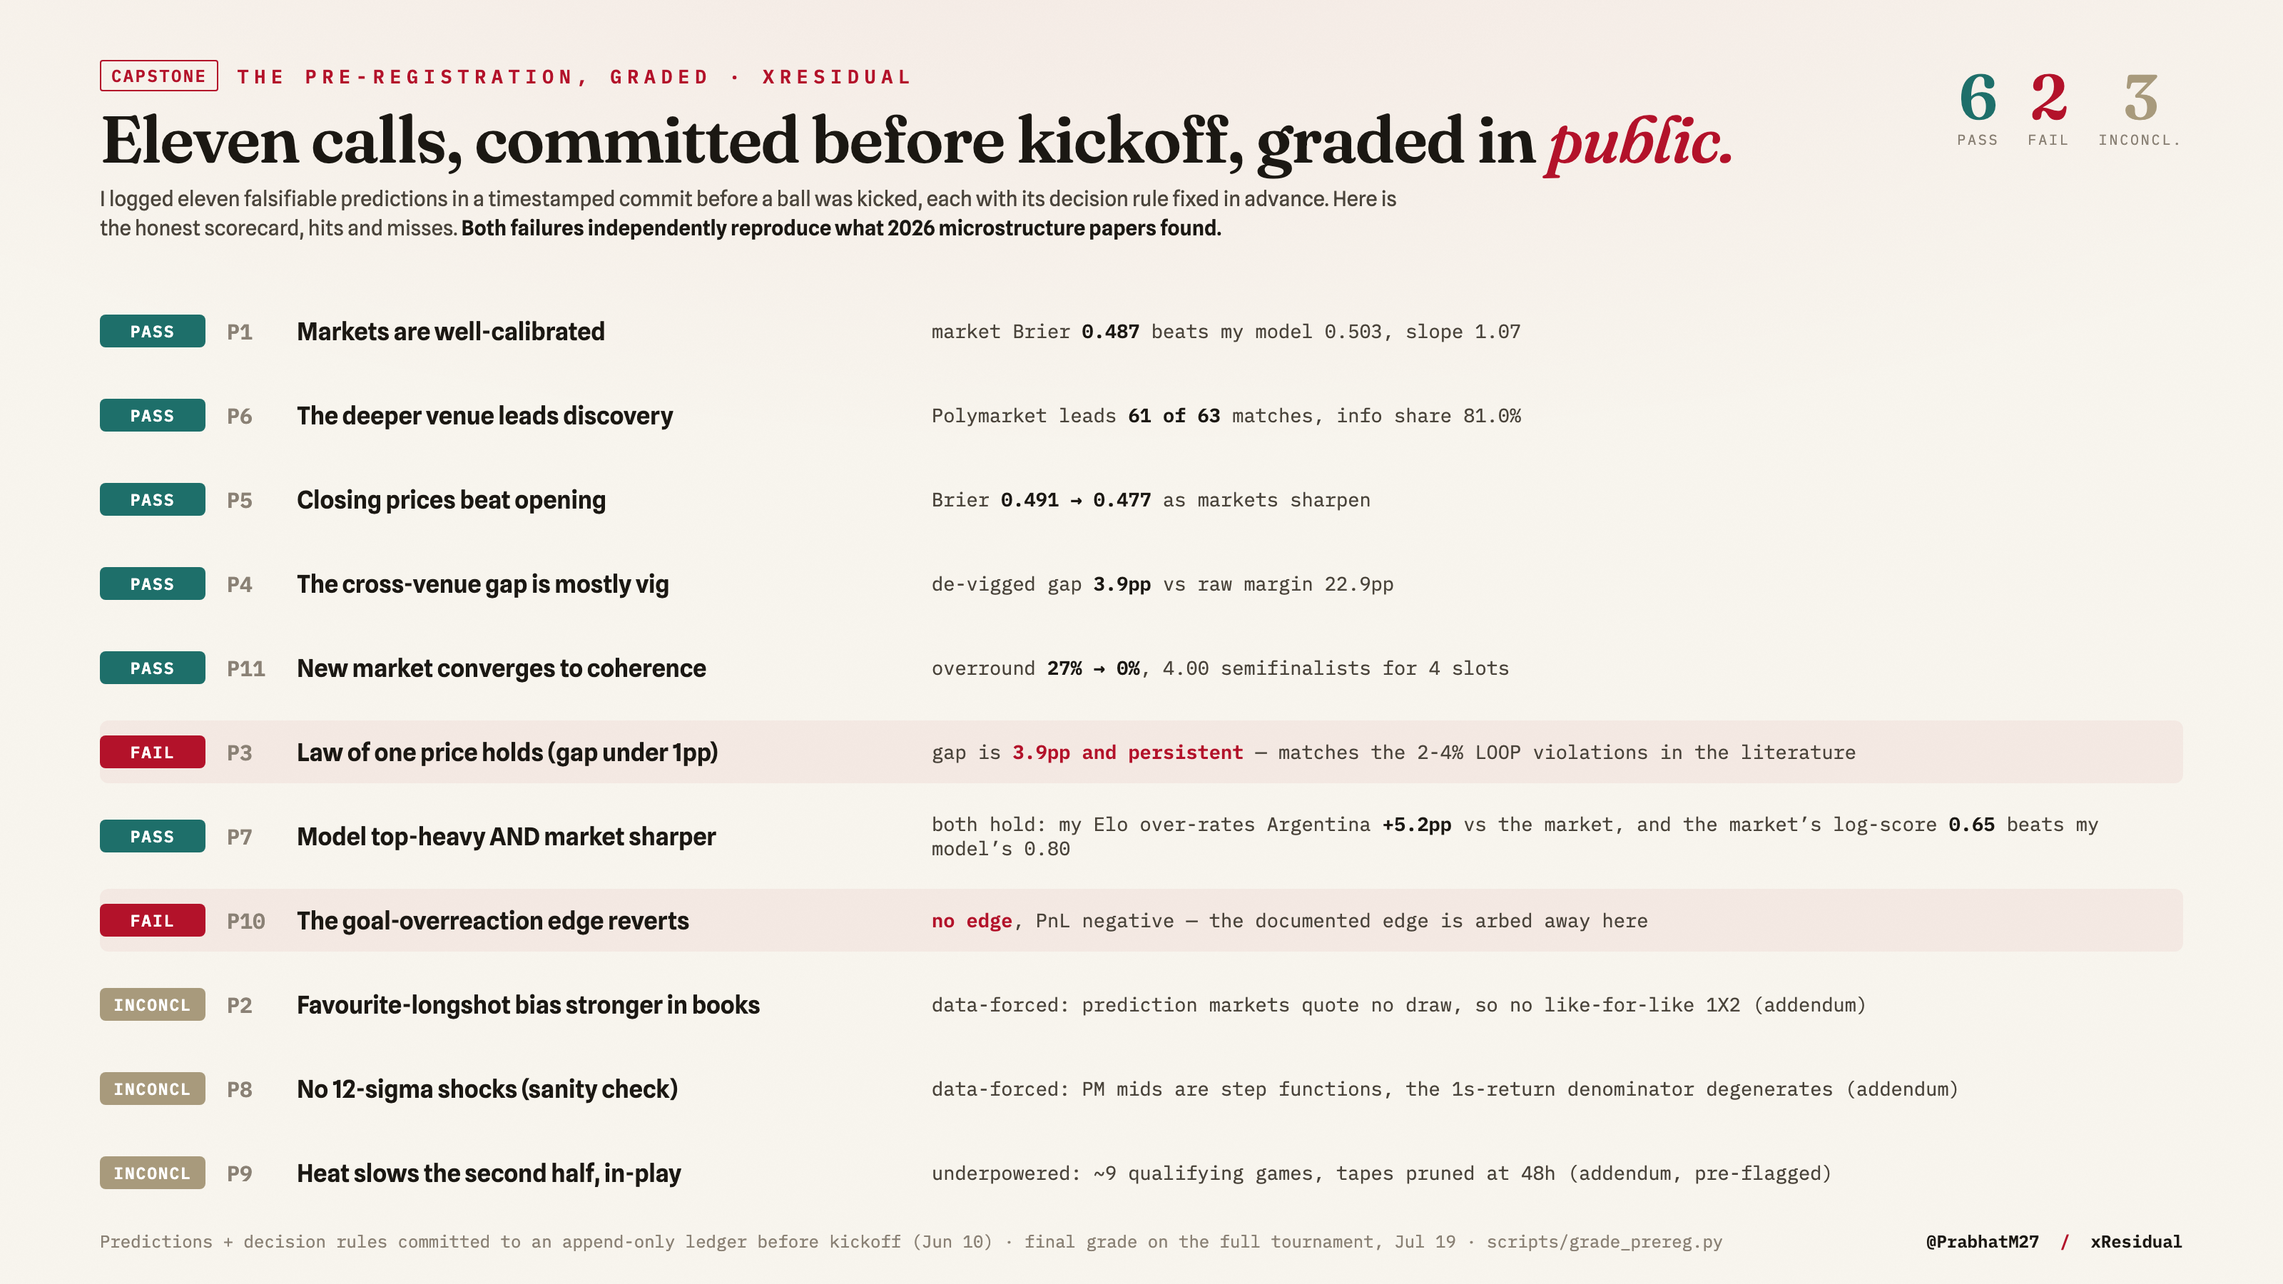
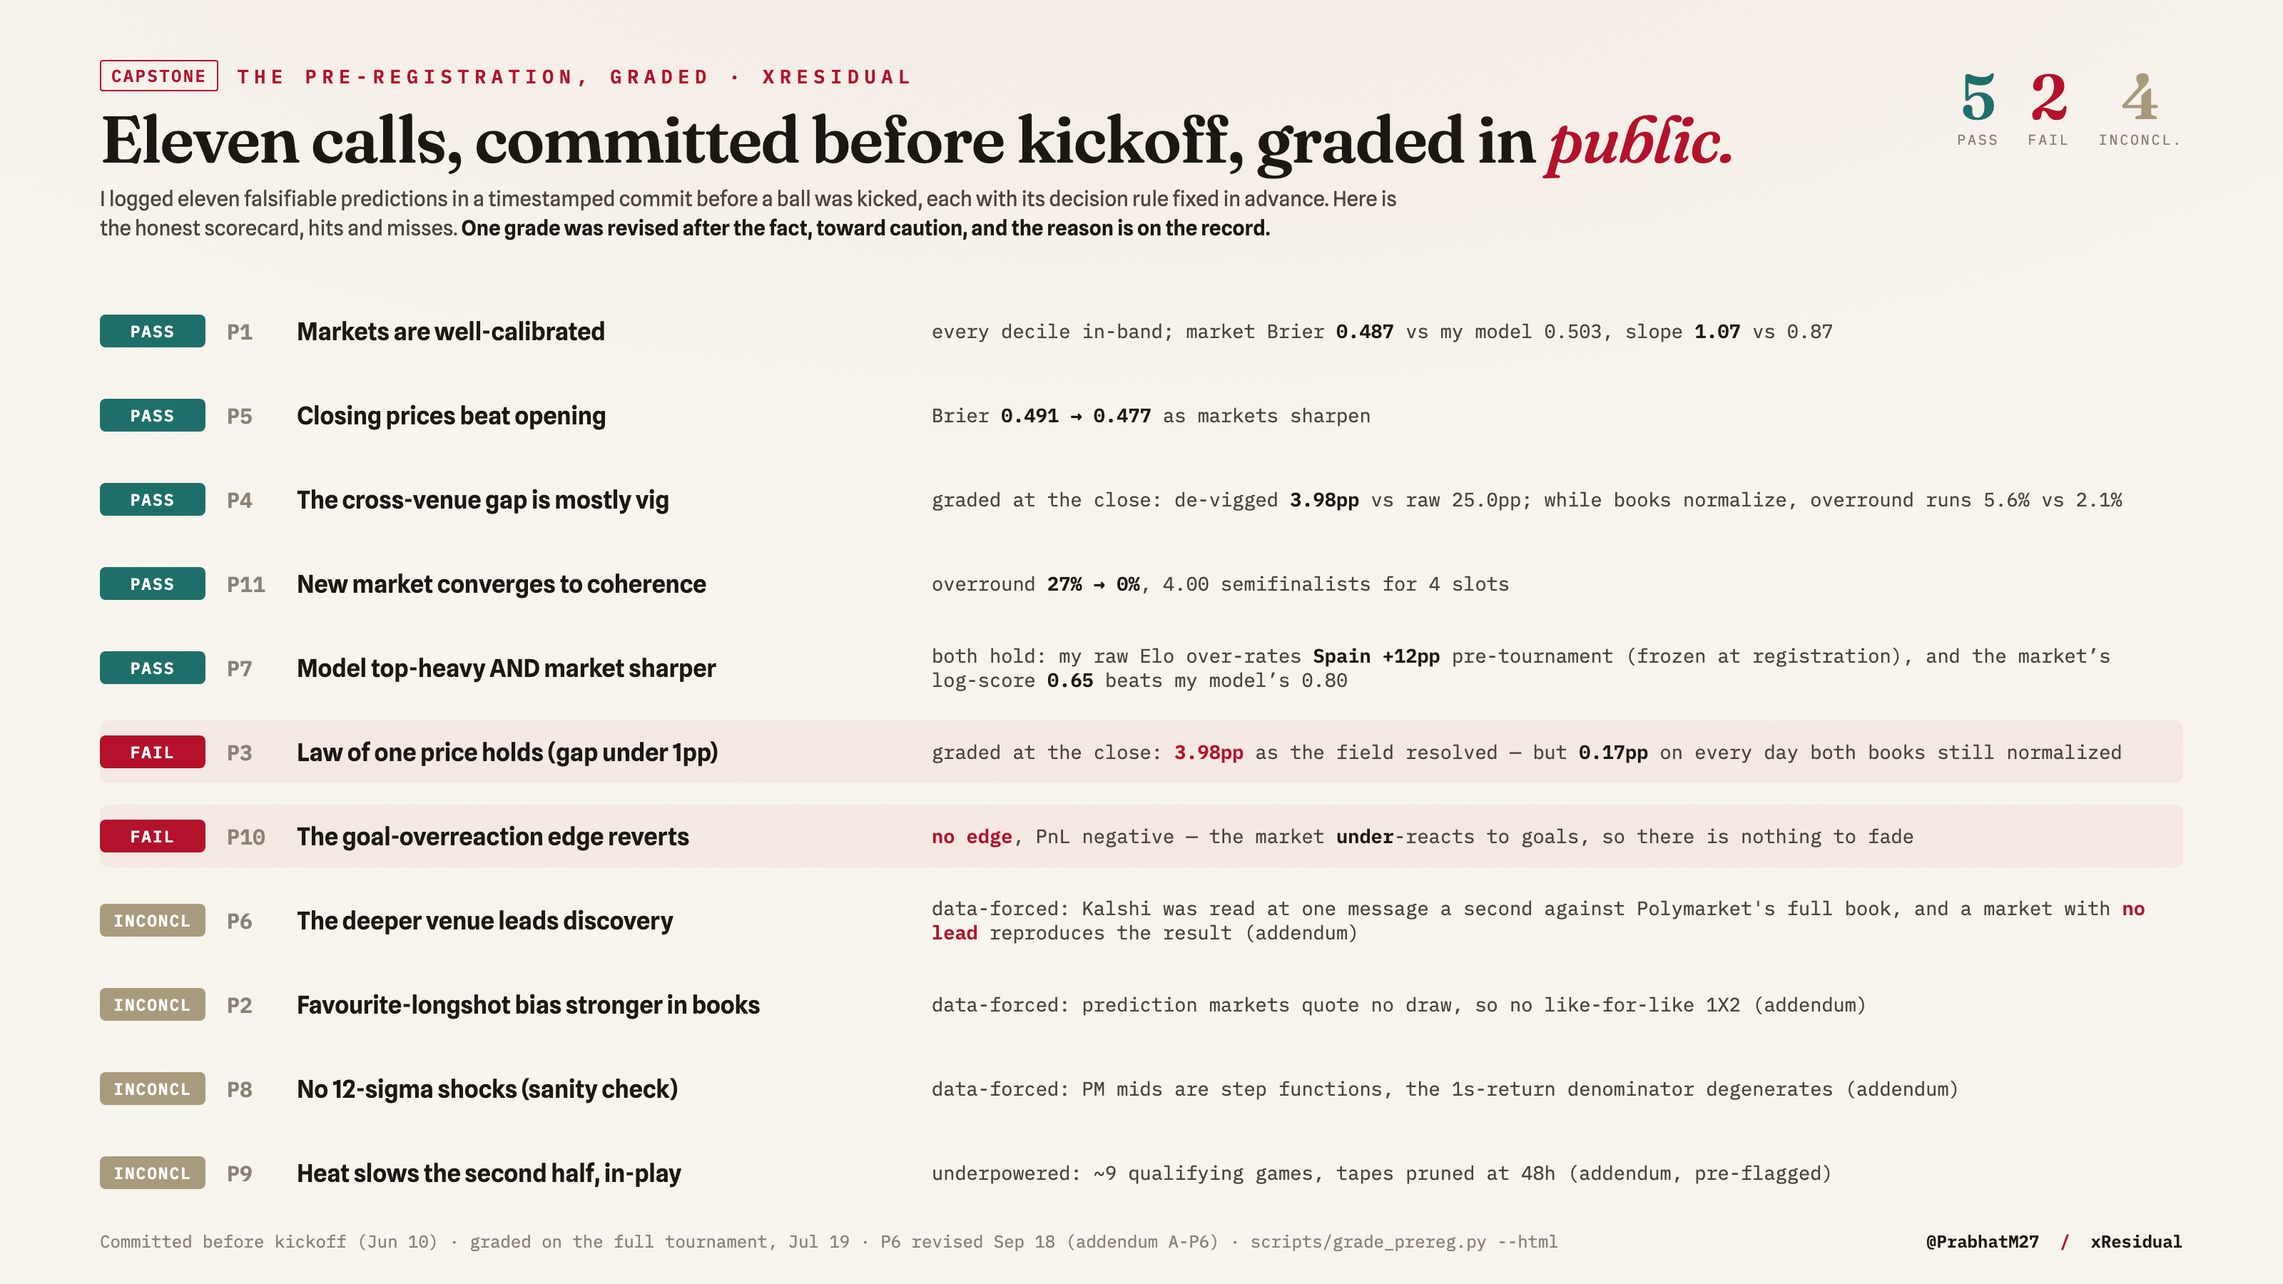
Regrade P6 to inconclusive and publish the correction
P6, 'the deeper venue leads price discovery', was graded PASS on a measurement that cannot see a lead:
Kalshi's mid came from a feed capped at one message a second against Polymarket's full book, and a
zero-lead placebo reproduces the published ordering. The grader now reads that placebo artifact and
returns a data-forced INCONCLUSIVE, the same class of verdict as P8, so the grade follows the evidence
if it is ever re-run rather than being hard-coded. The tally moves from 6/2/3 to 5/2/4. Addendum entry
A-P6 records the reasoning, and says first that this is a post-hoc revision of a named primary, made in
the only direction such a revision can be defended.

CORRECTION.md is the public account: what was claimed, how it failed, what changes, what does not, and
what the data does say (38% Kalshi-first, 39% no lead, 23% Polymarket-first, deconvolved).

The scorecard card also carried three stale or overstated lines, fixed from the artifacts: P1 said the
market 'beats my model' (a point result, p = 0.25), P3 called a resolution artifact 'persistent' where
the gap was 0.17pp on every comparable day, and P10 said the fade was 'arbed away' where the market in
fact under-reacts.

diff --git a/scripts/grade_prereg.py b/scripts/grade_prereg.py
@@ -76,6 +76,24 @@ def grade_p6():
         return V("P6", "Deeper venue leads (info share)", "genuine unknown", True,
                  INC, val, "n>=20 goal shocks", n=n, note="below pre-registered min n")
     verdict = PASS if poly > kal and (gg or 0) > 0.5 else FAIL
+    # Instrument check, added 2026-09-18 (PREREGISTRATION-ADDENDUM.md, A-P6). The capture read
+    # Kalshi's mid from its `ticker` channel, capped at one message per second, and Polymarket's
+    # from its full book (~10 ms). A known-truth placebo (scripts/sampling_bias_check.py) feeds
+    # this pipeline a market with NO lead; if it still reports a Polymarket majority, the metric
+    # cannot tell a lead from the sampling asymmetry on this data, and the grade is data-forced
+    # INCONCLUSIVE -- the same class of verdict as P8. Read from the artifact, never hard-coded.
+    sb = _load_json(os.path.join(WRITEUPS, "_sampling_bias_results.json"))
+    if sb:
+        zero = [r for r in sb.get("lead_lag_placebo", [])
+                if r.get("grid") == "kalshi_ticker_timestamps" and r.get("true_lag_ms") == 0]
+        if zero and zero[0]["n_gated"] and zero[0]["poly_first"] / zero[0]["n_gated"] > 0.5:
+            z = zero[0]
+            return V("P6", "Deeper venue leads (info share)", "genuine unknown", True,
+                     INC, val, "Poly IS>50% in majority of n>=20", n=n,
+                     note=(f"DATA-FORCED INCONCLUSIVE (A-P6): a zero-lead placebo sampled like the "
+                           f"capture reads Polymarket-first in {z['poly_first']}/{z['n_gated']} "
+                           f"windows, so the metric is not identified here. Deconvolved: see "
+                           f"_lead_deconvolution_results.json"))
     return V("P6", "Deeper venue leads (info share)", "genuine unknown", True,
              verdict, val, "Poly IS>50% in majority of n>=20", n=n,
              note="cross-check: per-match leader majority")
@@ -308,16 +326,16 @@ _ICON = {PASS: "PASS  ", FAIL: "FAIL  ", PARTIAL: "PART  ", INC: "INCONC", PEND:
 SCORECARD_HTML_OUT = os.path.join(VIZ, "model", "prereg_scorecard.html")
 _G = {PASS: "pass", FAIL: "fail", INC: "inc"}
 _BADGE = {"pass": "PASS", "fail": "FAIL", "inc": "INCONCL"}
-DISPLAY_ORDER = ["P1", "P6", "P5", "P4", "P11", "P3", "P7", "P10", "P2", "P8", "P9"]
+DISPLAY_ORDER = ["P1", "P5", "P4", "P11", "P7", "P3", "P10", "P6", "P2", "P8", "P9"]
 CARD = {
- "P1":  (PASS, "Markets are well-calibrated", "market Brier <b>0.487</b> beats my model 0.503, slope 1.07"),
- "P6":  (PASS, "The deeper venue leads discovery", "Polymarket leads <b>61 of 63</b> matches, info share 81.0%"),
+ "P1":  (PASS, "Markets are well-calibrated", "every decile in-band; market Brier <b>0.487</b> vs my model 0.503, slope <b>1.07</b> vs 0.87"),
+ "P6":  (INC,  "The deeper venue leads discovery", "data-forced: Kalshi was read at one message a second against Polymarket's full book, and a market with <span class=\"r\">no lead</span> reproduces the result (addendum)"),
  "P5":  (PASS, "Closing prices beat opening", "Brier <b>0.491 &rarr; 0.477</b> as markets sharpen"),
- "P4":  (PASS, "The cross-venue gap is mostly vig", "de-vigged gap <b>3.9pp</b> vs raw margin 22.9pp"),
+ "P4":  (PASS, "The cross-venue gap is mostly vig", "graded at the close: de-vigged <b>3.98pp</b> vs raw 25.0pp; while books normalize, overround runs 5.6% vs 2.1%"),
  "P11": (PASS, "New market converges to coherence", "overround <b>27% &rarr; 0%</b>, 4.00 semifinalists for 4 slots"),
- "P3":  (FAIL, "Law of one price holds (gap under 1pp)", "gap is <span class=\"r\">3.9pp and persistent</span> &mdash; matches the 2&ndash;4% LOOP violations in the literature"),
+ "P3":  (FAIL, "Law of one price holds (gap under 1pp)", "graded at the close: <span class=\"r\">3.98pp</span> as the field resolved &mdash; but <b>0.17pp</b> on every day both books still normalized"),
  "P7":  (PASS, "Model top-heavy AND market sharper", "both hold: my raw Elo over-rates <b>Spain +12pp</b> pre-tournament (frozen at registration), and the market&rsquo;s log-score <b>0.65</b> beats my model&rsquo;s 0.80"),
- "P10": (FAIL, "The goal-overreaction edge reverts", "<span class=\"r\">no edge</span>, PnL negative &mdash; the documented edge is arbed away here"),
+ "P10": (FAIL, "The goal-overreaction edge reverts", "<span class=\"r\">no edge</span>, PnL negative &mdash; the market <b>under</b>-reacts to goals, so there is nothing to fade"),
  "P2":  (INC,  "Favourite-longshot bias stronger in books", "data-forced: prediction markets quote no draw, so no like-for-like 1X2 (addendum)"),
  "P8":  (INC,  "No 12-sigma shocks (sanity check)", "data-forced: PM mids are step functions, the 1s-return denominator degenerates (addendum)"),
  "P9":  (INC,  "Heat slows the second half, in-play", "underpowered: ~9 qualifying games, tapes pruned at 48h (addendum, pre-flagged)"),
@@ -363,7 +381,7 @@ _CARD_TEMPLATE = """<!doctype html>
 <body><div class="card">
   <div class="head"><div class="kicker"><span class="no">CAPSTONE</span> The pre-registration, graded &middot; xResidual</div>
     <h1>Eleven calls, committed before kickoff, graded in <em>public.</em></h1>
-    <div class="dek">I logged eleven falsifiable predictions in a timestamped commit before a ball was kicked, each with its decision rule fixed in advance. Here is the honest scorecard, hits and misses. <b>Both failures independently reproduce what 2026 microstructure papers found.</b></div>
+    <div class="dek">I logged eleven falsifiable predictions in a timestamped commit before a ball was kicked, each with its decision rule fixed in advance. Here is the honest scorecard, hits and misses. <b>One grade was revised after the fact, toward caution, and the reason is on the record.</b></div>
   </div>
   <div class="tally">
     <div class="t pass"><div class="n">%%TPASS%%</div><div class="l">Pass</div></div>
@@ -372,7 +390,7 @@ _CARD_TEMPLATE = """<!doctype html>
   </div>
   <div class="rows">%%ROWS%%</div>
   <div class="foot">
-    <div>Predictions + decision rules committed to an append-only ledger before kickoff (Jun 10) &middot; final grade on the full tournament, Jul 19 &middot; scripts/grade_prereg.py --html</div>
+    <div>Committed before kickoff (Jun 10) &middot; graded on the full tournament, Jul 19 &middot; P6 revised Sep 18 (addendum A-P6) &middot; scripts/grade_prereg.py --html</div>
     <div class="brand">@PrabhatM27 &nbsp;<b>/</b>&nbsp; xResidual</div>
   </div>
 </div>

diff --git a/CORRECTION.md b/CORRECTION.md
@@ -1,0 +1,88 @@
+# Correction: the cross-venue lead-lag finding is withdrawn
+
+*2026-09-18.*
+
+Until this date, this repository, its site and its desk note said that **Polymarket discovers the
+price of a goal before Kalshi**: first in 72% of 392 repricing events, by a median of +600 ms, with an
+81.0% Gonzalo-Granger information share and a lead in 61 of 63 cointegrated matches. That finding is
+withdrawn. It was produced by how the data was read, not by the markets.
+
+## What went wrong
+
+The capture recorded both venues at full resolution. The analysis did not use it that way.
+
+Kalshi's mid-price was built only from Kalshi's `ticker` channel
+([`xresidual/ws_events.py:111`](xresidual/ws_events.py#L111),
+[`scripts/stream_micro.py:63`](scripts/stream_micro.py#L63)). Kalshi documents that channel as
+event-driven, but it is capped at one message per second per market: in the busiest seconds of a match
+the order book changes 200–380 times while the ticker sends at most one message. Polymarket's mid was
+rebuilt from its full order book, updating roughly every 10 ms. Kalshi's own full-resolution
+`orderbook_delta` stream was subscribed to and recorded on every capture, and never read.
+
+A price you only look at once a second always looks late — by up to a second, about half a second on
+average. The published lead was 600 ms.
+
+## How it was established
+
+Not by argument. By a test where the right answer is known in advance
+([`scripts/sampling_bias_check.py`](scripts/sampling_bias_check.py)):
+
+- Take real Polymarket price paths around real goals. Build a "Kalshi" that is **the same price at the
+  same instant** — a lead of exactly zero — and observe it at Kalshi's real one-per-second timestamps.
+  The published estimator reports **Polymarket first in 26 of 29 windows, at a median +600 ms.**
+- Give the same estimator both prices at full resolution and it recovers the true lead exactly. The
+  fault is the sampling, not the estimator.
+- A true 300 ms *Kalshi* lead still reads as Polymarket-first.
+- The information share fails the same way: whichever venue is sampled faster gets the larger share,
+  and swapping which one that is swaps the "leader". On the one match whose Kalshi book could be rebuilt
+  and verified, Polymarket's share falls from 88% to 53%.
+
+The calm-play placebo and the exogenous goal clock, which the original analysis relied on, could not
+catch this: both check things downstream of the price series, and both inherit the problem.
+
+## What changes
+
+- **Withdrawn:** the +600 ms lead, the 72% first-mover share, the 57-of-66 per-match lean, the
+  clock-verified 75%, the 81.0% component and 75.2% Hasbrouck information shares, and the
+  goal-vs-calm contrast (86% vs 53%).
+- **Withdrawn:** that the leading venue's order book empties hardest at a goal. With both venues
+  sampled the same way, the comparison reverses.
+- **Regraded:** pre-registered prediction P6 ("the deeper venue leads price discovery") moves from
+  PASS to INCONCLUSIVE, so the scorecard is now **5 pass / 2 fail / 4 inconclusive**, not 6 / 2 / 3.
+  The reasoning is logged in [PREREGISTRATION-ADDENDUM.md](PREREGISTRATION-ADDENDUM.md) (entry A-P6).
+
+## What does not change
+
+Everything that did not depend on Kalshi's timing at second resolution:
+
+- The market out-calibrated my pre-registered model (market Brier 0.487 vs 0.503; calibration slope
+  1.07 vs 0.87). P1, the other named primary, still passes.
+- The cross-venue gap is margin, not disagreement: 0.17 pp de-vigged on every day both books
+  normalized, against overround of 5.6% on Kalshi and 2.1% on Polymarket.
+- The market under-reacts to goals, booking about a third of the model's fair move. This was measured
+  on Polymarket alone, 30 seconds after each goal.
+- Order books empty at a goal on both venues, so the dislocation a follower would chase has nothing
+  resting behind it. Once-a-second sampling made Kalshi's book look *deeper* than it was, so the
+  un-harvestable conclusion is, if anything, understated.
+
+## What the data does say
+
+The estimator's response to a known lead is measurable, so the 427 published lead measurements can be
+inverted against it ([`scripts/lead_deconvolution.py`](scripts/lead_deconvolution.py), validated on
+known inputs before use). The recovered distribution of true leads: **38% Kalshi first, 39% no lead,
+23% Polymarket first.** There is real cross-venue structure, in both directions, and no systematic
+Polymarket lead. This is exploratory, not a pre-registered result.
+
+## Where the old material is
+
+The desk note, the price-discovery writeup, the blog post, the SSRN draft and the June 14
+microstructure pre-registration are in [`archive/cross-venue/`](archive/cross-venue/), unchanged. The
+scripts stay where they were, because the tests above run on them. The full audit — every result sorted
+by whether it survives — is [`writeups/recovery-audit.md`](writeups/recovery-audit.md).
+
+## Why it was missed
+
+Every check this project ran asked whether the numbers were consistent: prose against artifacts,
+artifacts against rebuilds, the paper against a fresh clone. None asked whether the input was right.
+A pipeline can be perfectly self-consistent and uniformly wrong. The known-truth placebo that exposed
+this took about an hour to build; it should have been the first test, not the last.

diff --git a/PREREGISTRATION-ADDENDUM.md b/PREREGISTRATION-ADDENDUM.md
@@ -155,3 +155,45 @@ such, not stretched into a PASS or FAIL off an underpowered half-metric. P9 was 
 deliberately-flagged genuine unknown; the primaries (P1, P6) and the scored FAIL/PASS results are
 unaffected. All three inconclusives (P2, P8, P9) are now documented data-forced or underpowered
 limitations, so the July-19 scorecard carries no undocumented gap.
+
+---
+
+## 2026-09-18 — P6 regraded PASS → INCONCLUSIVE: the instrument cannot see the lead (entry A-P6)
+
+**This entry is different from the ones above, and the difference should be stated first.** Every
+earlier entry was either a method fix made before kickoff or a data-forced verdict recorded at grading
+time. This one revises a published grade two months after the final, and it revises a *named primary*.
+It moves the verdict toward caution, not toward a better score, which is the only direction a
+post-hoc change to a frozen scorecard can be defended in.
+
+**What was wrong.** P6 asks whether the deeper venue leads price discovery, graded on the information
+share from a VECM on synchronized mids. The capture recorded both venues at full resolution — Kalshi's
+`orderbook_delta` stream arrives about every 10 ms — but the analysis built Kalshi's mid only from its
+`ticker` channel (`xresidual/ws_events.py:111`, `scripts/stream_micro.py:63`). Kalshi documents that
+channel as event-driven, and in practice it is capped at one message per second per market: in the
+busiest seconds of a match the book changes 200–380 times while the ticker sends at most one message.
+Polymarket's mid was rebuilt from its full book. One venue was therefore observed about a hundred times
+more often than the other, and a price observed once a second is observed late by construction.
+
+**How it was established.** A known-truth placebo (`scripts/sampling_bias_check.py`,
+`writeups/_sampling_bias_results.json`) feeds the published pipeline a market in which neither venue
+leads — the same price path on both sides — observed the way the capture observed Kalshi. It reports
+Polymarket first in 26 of 29 windows at a median +600 ms, which is the published headline. The same
+placebo on the information share hands whichever series is sampled faster the larger share, and
+relabelling the venues moves the "leader" with the sampling. On the one match whose Kalshi book could be
+rebuilt at full resolution and verified against Kalshi's own quotes, Polymarket's component share falls
+from 88% to 53%. The metric P6 is graded on is not identified on this capture.
+
+**What the data does say.** The estimator's response to a known lead is measurable, so the 427 published
+lead measurements can be inverted against it (`scripts/lead_deconvolution.py`, validated on known inputs
+first). The recovered distribution of true leads is 38% Kalshi first, 39% no lead, 23% Polymarket first:
+no systematic Polymarket lead. That analysis is exploratory and is not the pre-registered metric, so it
+does not grade P6 either way.
+
+**Effect on the grade.** **P6 → INCONCLUSIVE (data-forced)**, the same class of verdict as P8, whose
+metric was likewise mis-specified for this data. The tally moves from 6 pass / 2 fail / 3 inconclusive to
+**5 pass / 2 fail / 4 inconclusive**. P1, the other primary, is unaffected: calibration is scored on
+closing prices and outcomes and never touched the tape. The grader applies this rule from the placebo
+artifact rather than a hard-coded verdict, so the grade will follow the evidence if it is ever re-run.
+The full account, including what else the finding does and does not affect, is in
+[CORRECTION.md](CORRECTION.md).
